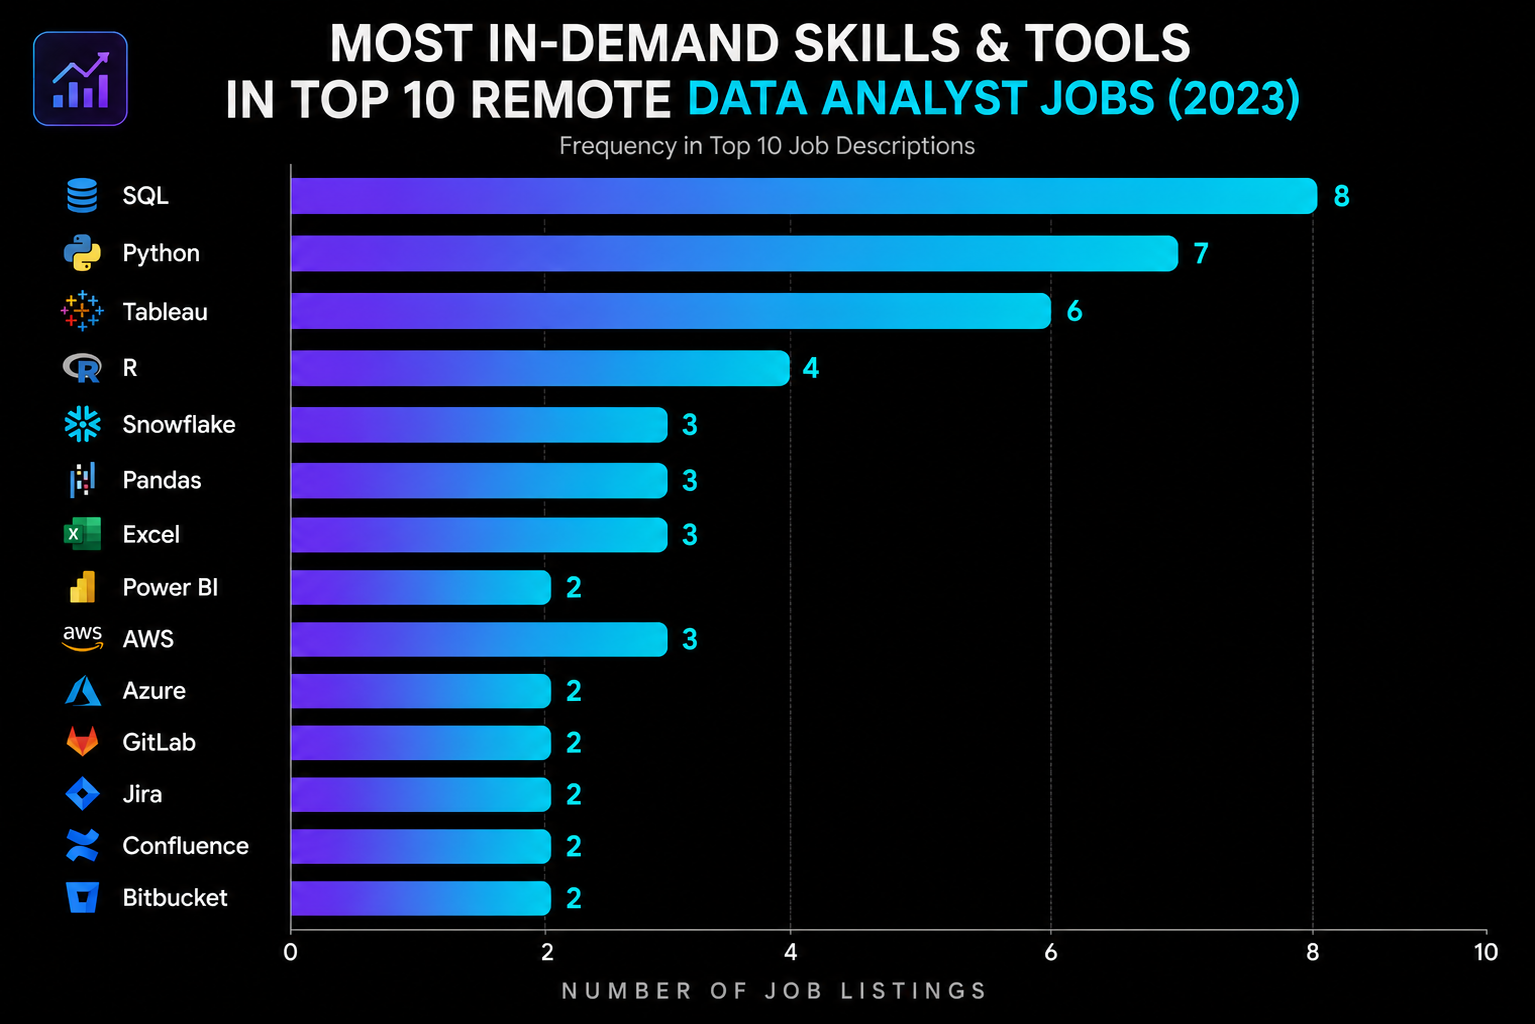
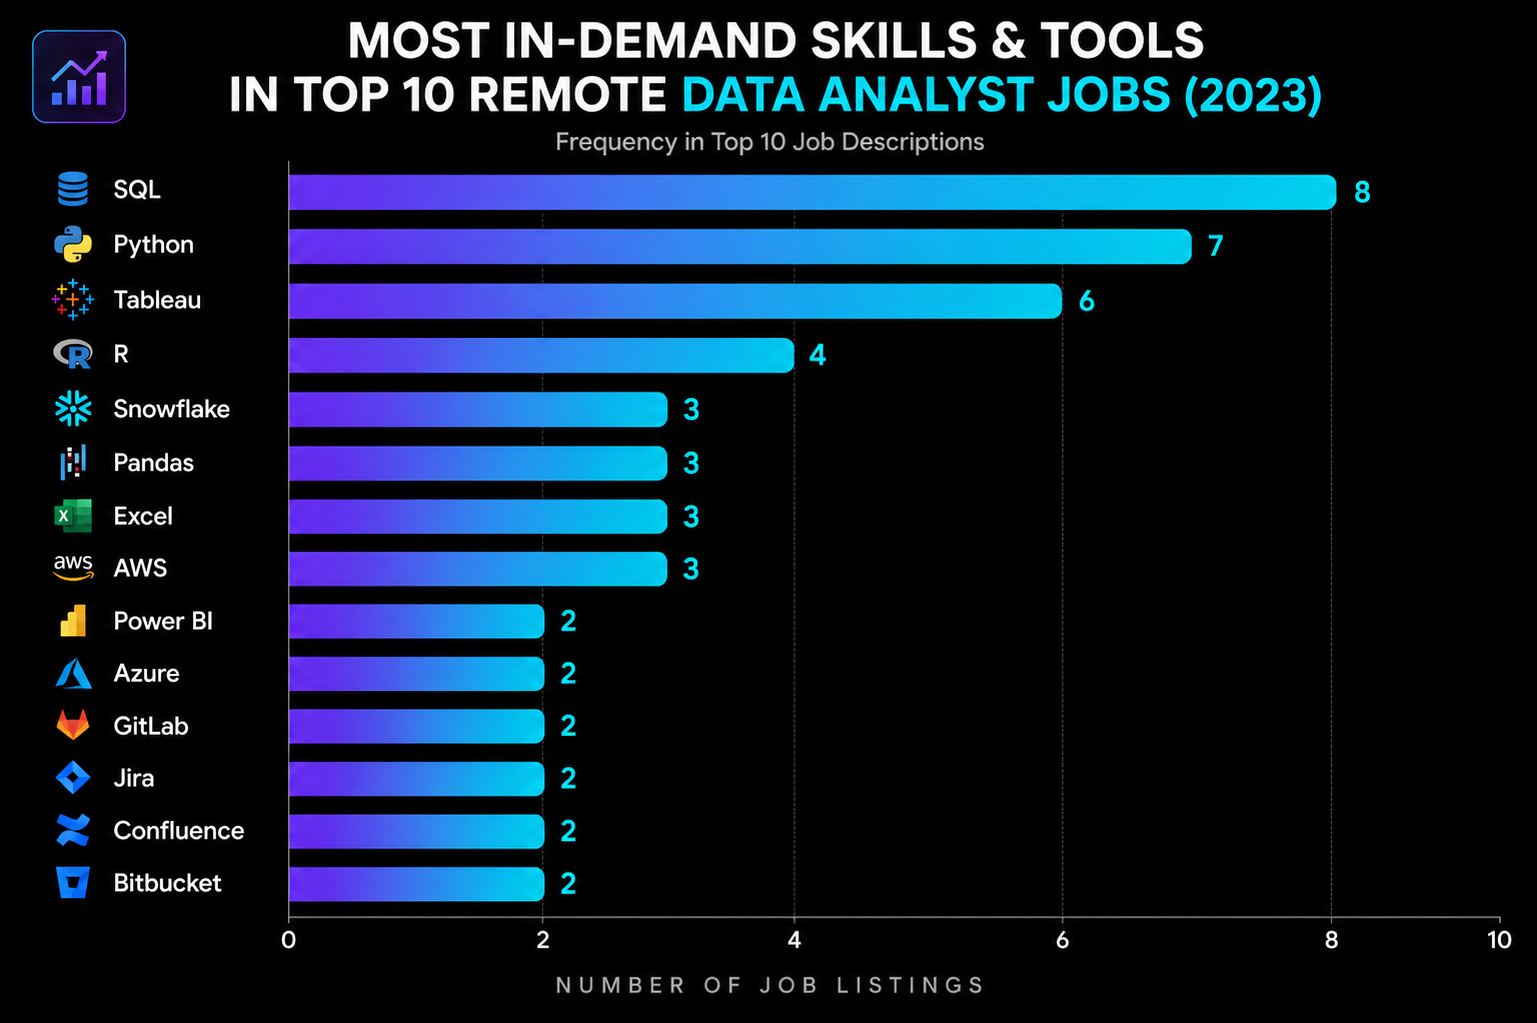
Feature: added exercise 3, and its markdown analysis

Changed region(s): [[0.0306, 0.0, 0.9798, 0.9697], [0.0306, 0.0303, 0.0919, 0.1212]]

diff --git a/README.md b/README.md
@@ -76,7 +76,10 @@ SELECT AVG (salary_year_avg) FROM job_postings_fact WHERE job_title_short = 'Dat
 <p align="center">
   <img src="assets/1_top_paying_roles.png" width="600" alt="Top Paying Roles">
 </p>
-*Bar graph visualizing the salaries for the top 10 remote data analyst roles, including industry and remote average comparisons. This visualization was generated using ChatGPT based on my SQL query results.*
+
+<p align="center">
+  <em>Bar graph visualizing the salaries for the top 10 remote data analyst roles, including industry and remote average comparisons. This visualization was generated using ChatGPT based on my SQL query results.</em>
+</p>
 
 ### 2. What Skills are Required for These Top-Paying Jobs?
 To understand what skills are prioritized by employers offering the highest salaries, I joined the top 10 job postings with the skills dimension table. This reveals the "Golden Stack" for high-compensation remote roles.
@@ -122,4 +125,61 @@ ORDER BY
 <p align="center">
   <img src="assets/2_top_paying_job_skills.png" width="600" alt="Top Paying Skills">
 </p>
-*Bar graph visualizing the skill frequency for the top 10 highest-paying Data Analyst roles. Visualization generated via ChatGPT based on my T-SQL query results.*
+<p align="center">
+  <em>Bar graph visualizing the skill frequency for the top 10 highest-paying Data Analyst roles. Visualization generated via ChatGPT based on my T-SQL query results.</em>
+</p>
+
+### 3. In-Demand Skills for Data Analysts
+
+This query identifies the most frequently requested skills in the job market. While the global trend shows a high demand for Python and Tableau, my analysis indicates that core foundations like SQL and Excel remain the absolute baseline for entry.
+```sql
+-- calculate aggregated demand of skills for Data Analyst & Anywhere
+WITH total_jobs_data_analyst_anywhere AS (
+	SELECT
+		COUNT(*) AS total_demand_count
+	FROM
+		job_postings_fact
+	WHERE
+		job_title_short = 'Data Analyst' AND job_location = 'Anywhere'
+	),
+-- calculate top 10 skills for Data Analyst & Anywhere
+tops_skills_demand as (
+SELECT TOP 10
+	skills_dim.skills,
+	COUNT(job_postings_fact.job_id) AS 'Demand Count',
+	-- to calculate % we need to multiply the numerator 100 times, and it will be converted into a float number
+	-- if you do not do this, SQL will think it's an INT and truncate it to 0
+	CAST(ROUND(COUNT(job_postings_fact.job_id) * 100.0 / (SELECT total_demand_count FROM total_jobs_data_analyst_anywhere), 2) AS DECIMAL(5,2)) AS '% of Total'
+FROM job_postings_fact
+INNER JOIN
+	skills_job_dim ON skills_job_dim.job_id = job_postings_fact.job_id
+INNER JOIN
+	skills_dim ON skills_dim.skill_id = skills_job_dim.skill_id
+WHERE
+	job_title_short = 'Data Analyst' AND job_location = 'Anywhere'
+GROUP BY
+	skills_dim.skills
+ORDER BY
+	[Demand Count] DESC
+	)
+SELECT * FROM tops_skills_demand
+UNION ALL
+SELECT 'Top 10 Total', SUM([Demand Count]), SUM([% of Total]/100) 
+FROM tops_skills_demand;
+```
+### Key Insights:
+- **The Core Foundation:** **SQL** and **Excel** remain the backbone of remote Data Analyst roles, with 7,291 and 4,611 mentions respectively. This highlights that data extraction, querying, and spreadsheet analysis are still essential skills across the industry.
+
+- **The Visualization Landscape:** On a global scale, **Tableau** (3,745 mentions) shows stronger demand than **Power BI** (2,609) in remote "Anywhere" postings. However, my regional analysis for **Argentina** reveals a different trend, where Power BI (122) surpasses both Excel (118) and Tableau (86), suggesting a stronger adoption of the Microsoft ecosystem in the local market.
+
+- **The Technical Shift:** **Python** ranks as the leading programming language with 4,330 mentions, reflecting the growing expectation for analysts to handle automation, data manipulation, and more advanced analytical workflows.
+
+- **The Market Priority:** The data suggests that mastering the "Big Three" — **SQL, Python, and a BI tool (Tableau or Power BI)** — provides the strongest foundation for visibility and competitiveness in the remote Data Analyst job market.
+
+<p align="center">
+  <img src="assets/3_top_demanded_skills.png" width="600" alt="Top Demanded Skills">
+</p>
+
+<p align="center">
+  <em>Demand for the top skills in remote Data Analyst job postings.</em>
+</p>